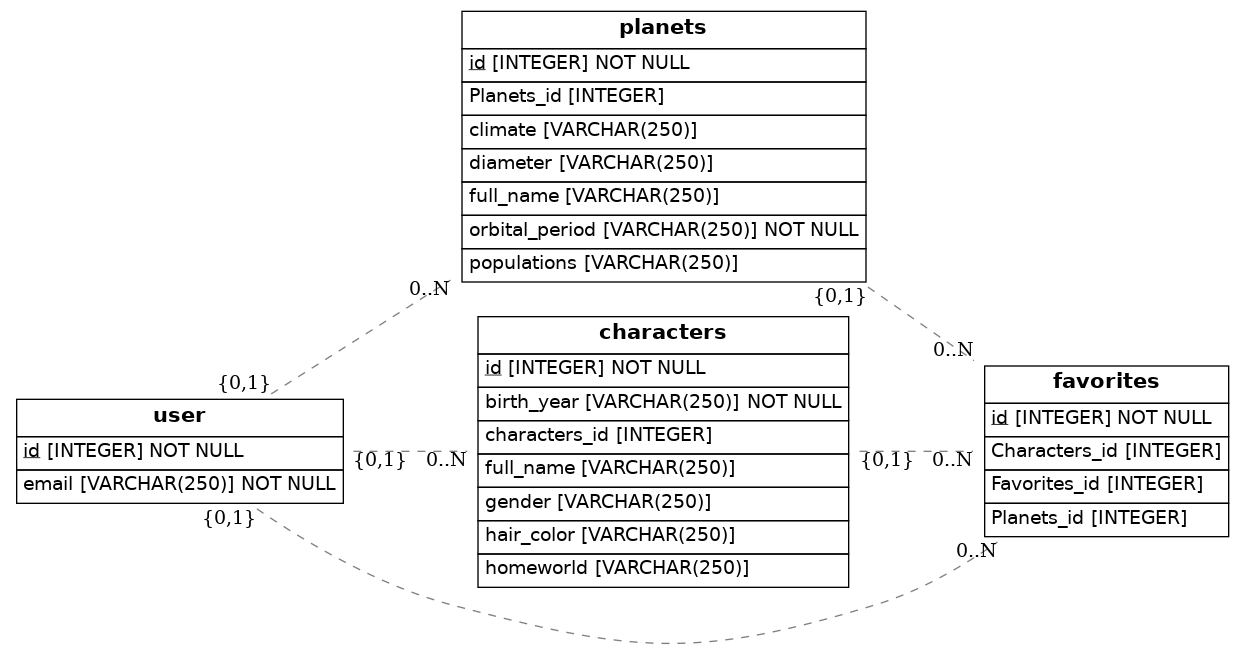
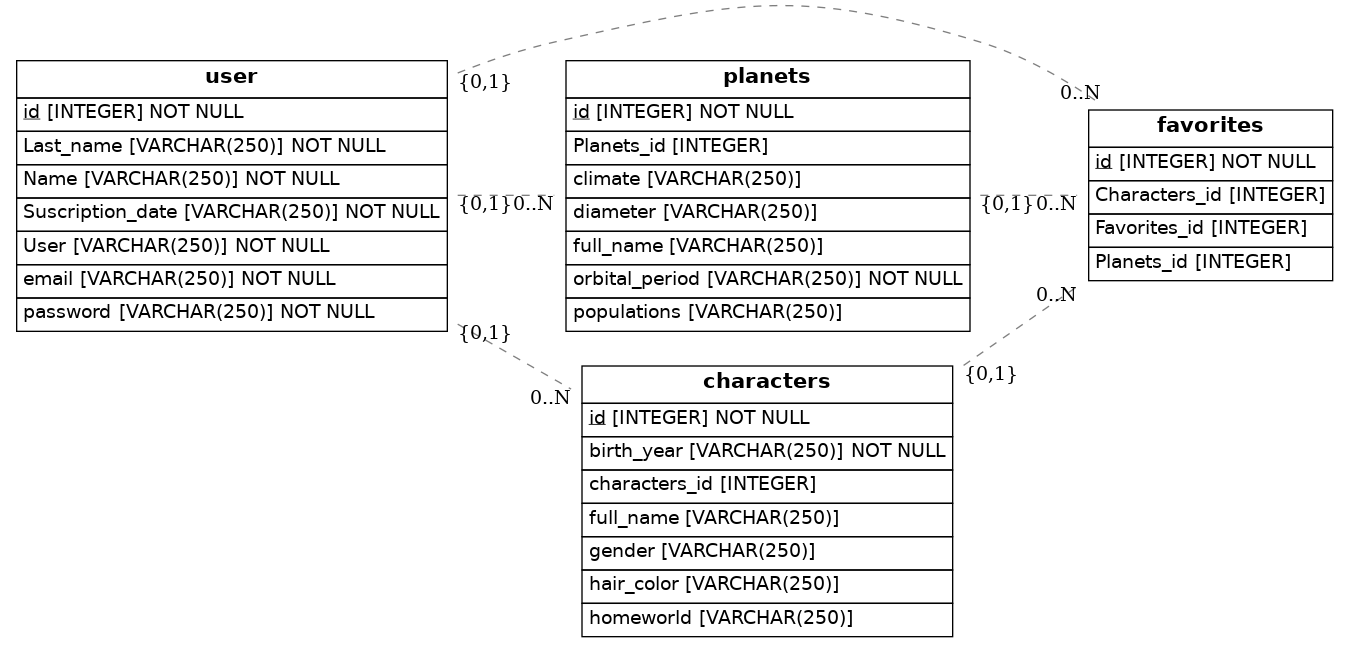
agrego datos al user

diff --git a/src/models.py b/src/models.py
@@ -12,10 +12,25 @@ class user(Base):
     # Here we define columns for the table person
     # Notice that each column is also a normal Python instance attribute.
     id = Column(Integer, primary_key=True)
-    user = Column(String(250), nullable=False)
+    Name = Column(String(250), nullable=False)
+    Last_name = Column(String(250), nullable=False)
+    User = Column(String(250), nullable=False)
     email = Column(String(250), nullable=False)
+    password = Column(String(250), nullable=False)
+    Suscription_date = Column(String(250), nullable=False)
     user = relationship( "user", back_populates="favorites")
 
+class Favorites(Base):
+    __tablename__ = 'favorites'
+    # Here we define columns for the table address.
+    # Notice that each column is also a normal Python instance attribute.
+    id = Column(Integer, primary_key=True)
+    Characters_id = Column(ForeignKey("characters.id"))
+    Characters = relationship( "Characters", back_populates="favorites")
+    Planets_id = Column(ForeignKey("planets.id"))
+    Planets = relationship( "Planets", back_populates="favorites")
+    Favorites_id = Column(ForeignKey("user.id"))
+    Favorites = relationship( "user", back_populates="favorites")
     
 class Planets(Base):
     __tablename__ = 'planets'
@@ -43,17 +58,6 @@ class Characters(Base):
     characters_id = Column(Integer, ForeignKey('user.id'))
     favorites = relationship ("Favorites", back_populates =  "characters")
 
-class Favorites(Base):
-    __tablename__ = 'favorites'
-    # Here we define columns for the table address.
-    # Notice that each column is also a normal Python instance attribute.
-    id = Column(Integer, primary_key=True)
-    Characters_id = Column(ForeignKey("characters.id"))
-    Characters = relationship( "Characters", back_populates="favorites")
-    Planets_id = Column(ForeignKey("planets.id"))
-    Planets = relationship( "Planets", back_populates="favorites")
-    Favorites_id = Column(ForeignKey("user.id"))
-    Favorites = relationship( "user", back_populates="favorites")
     
 
 
